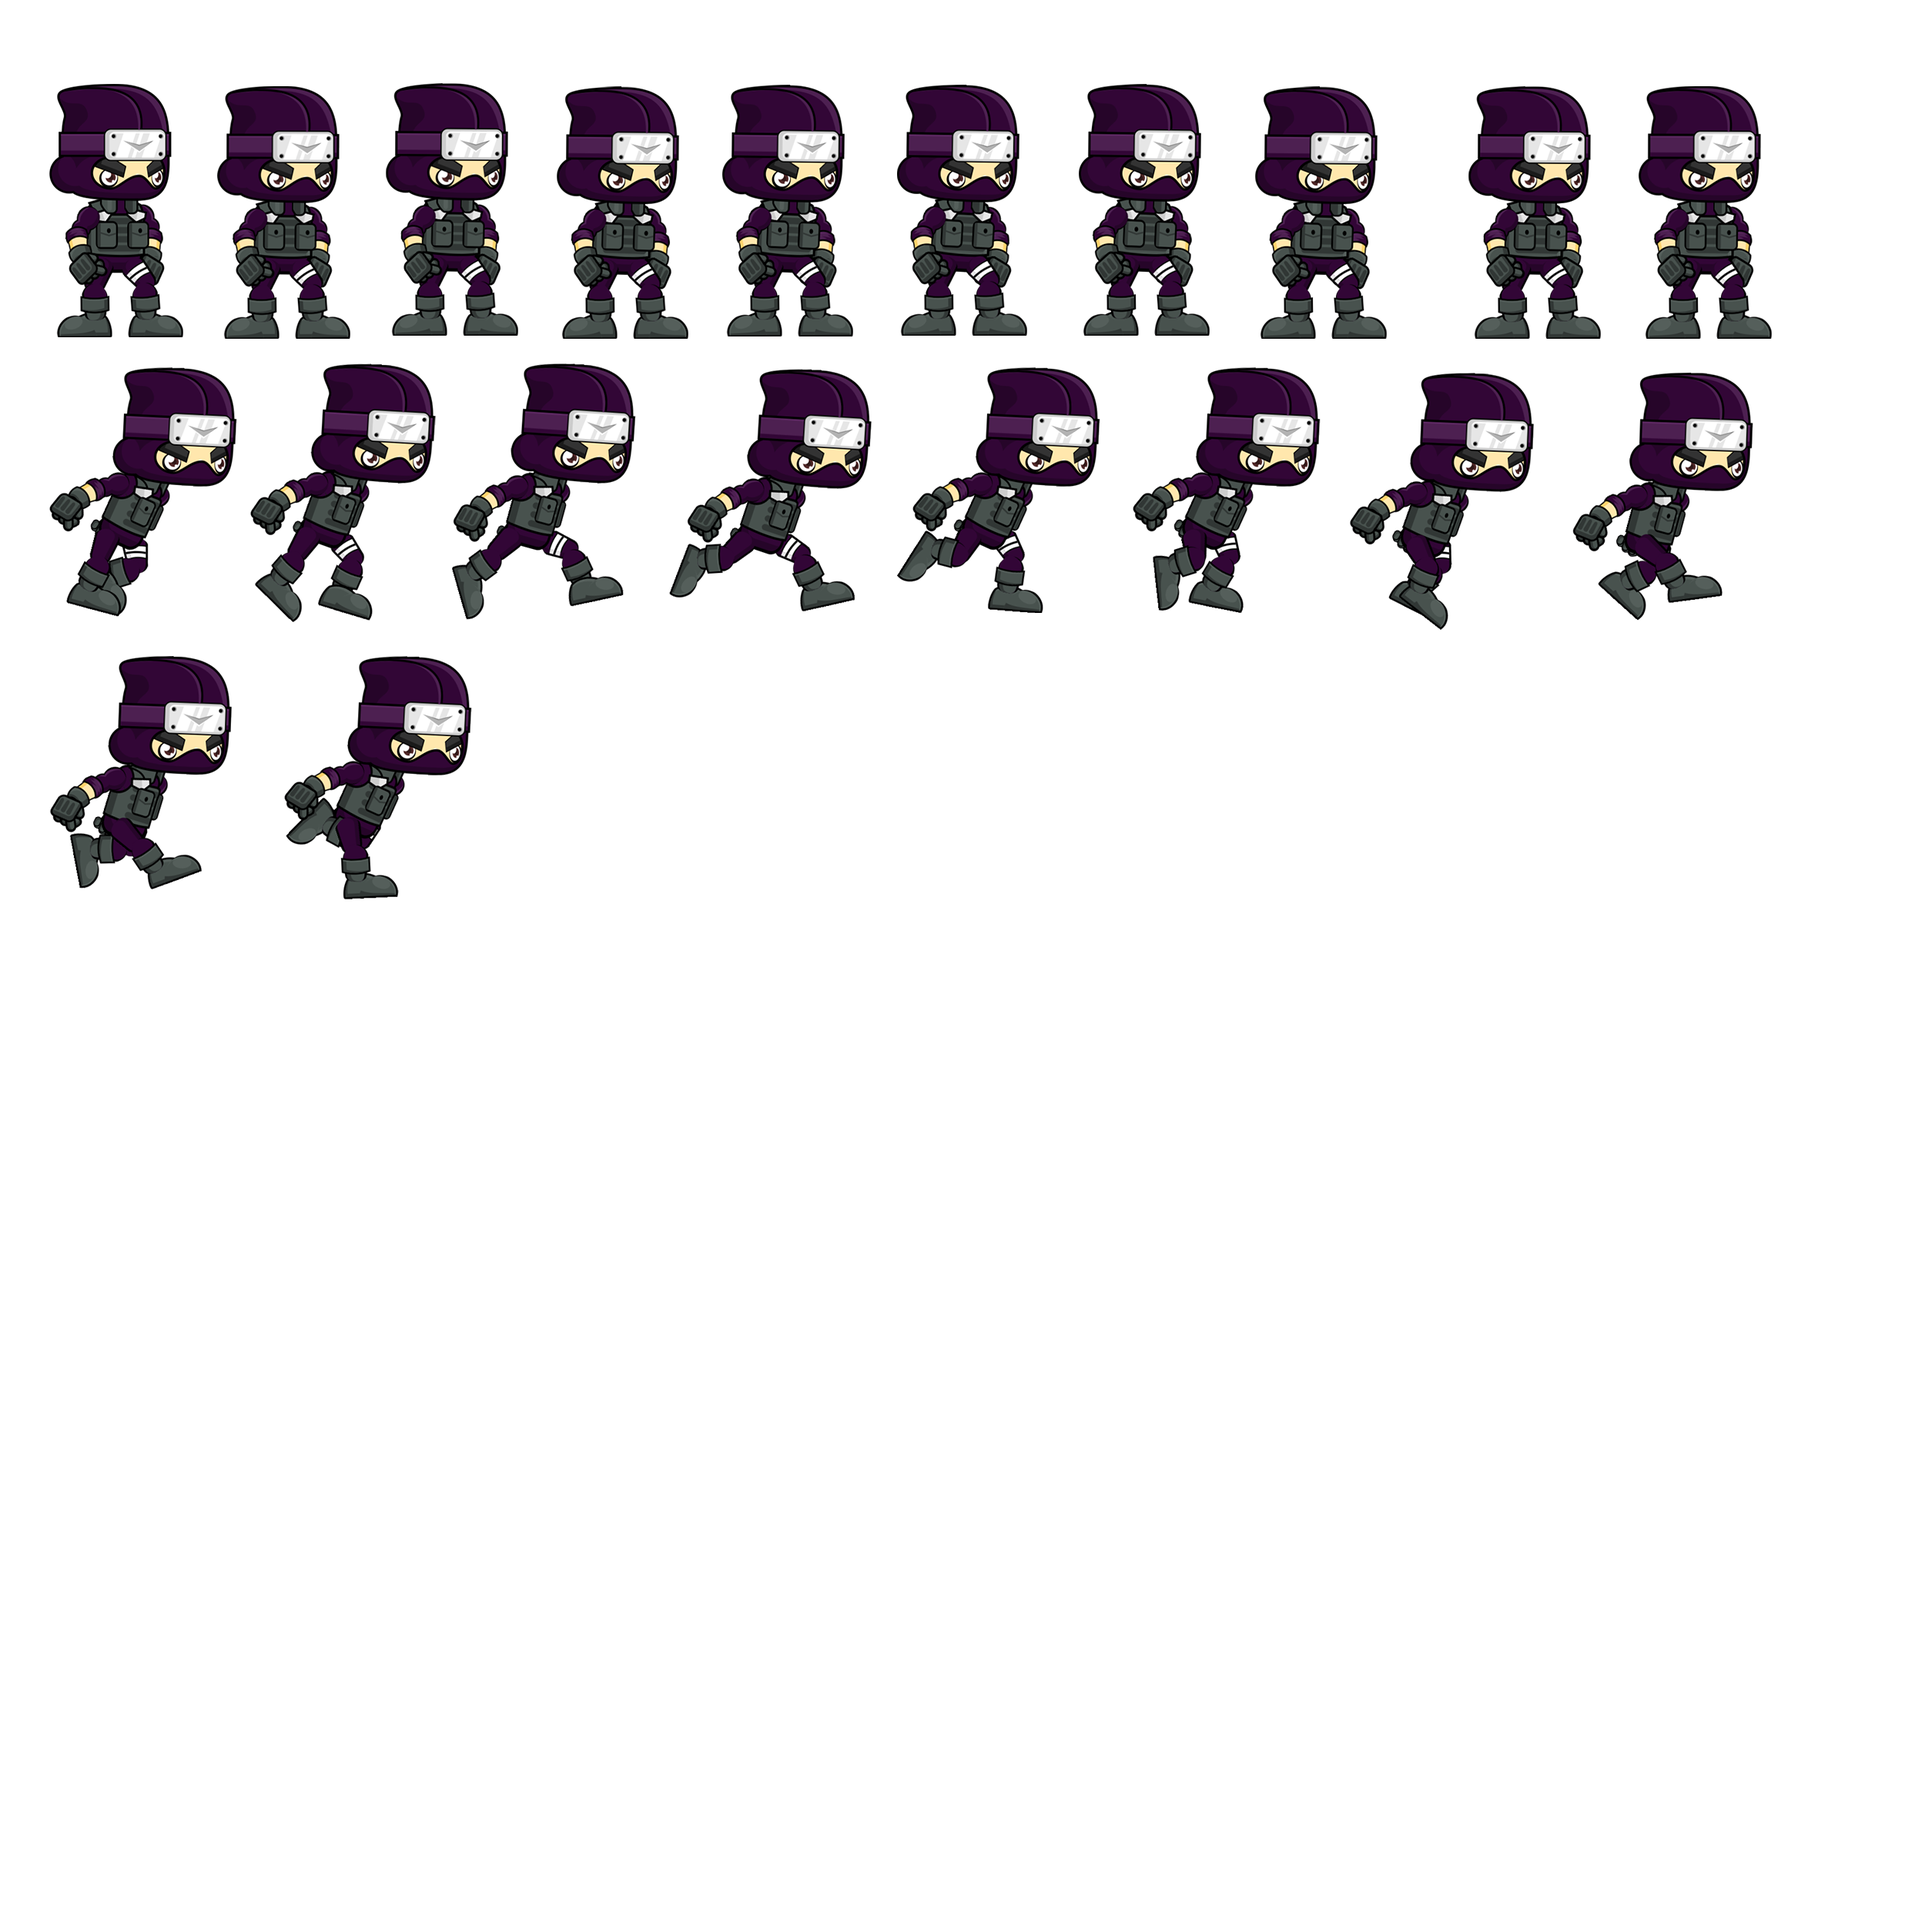
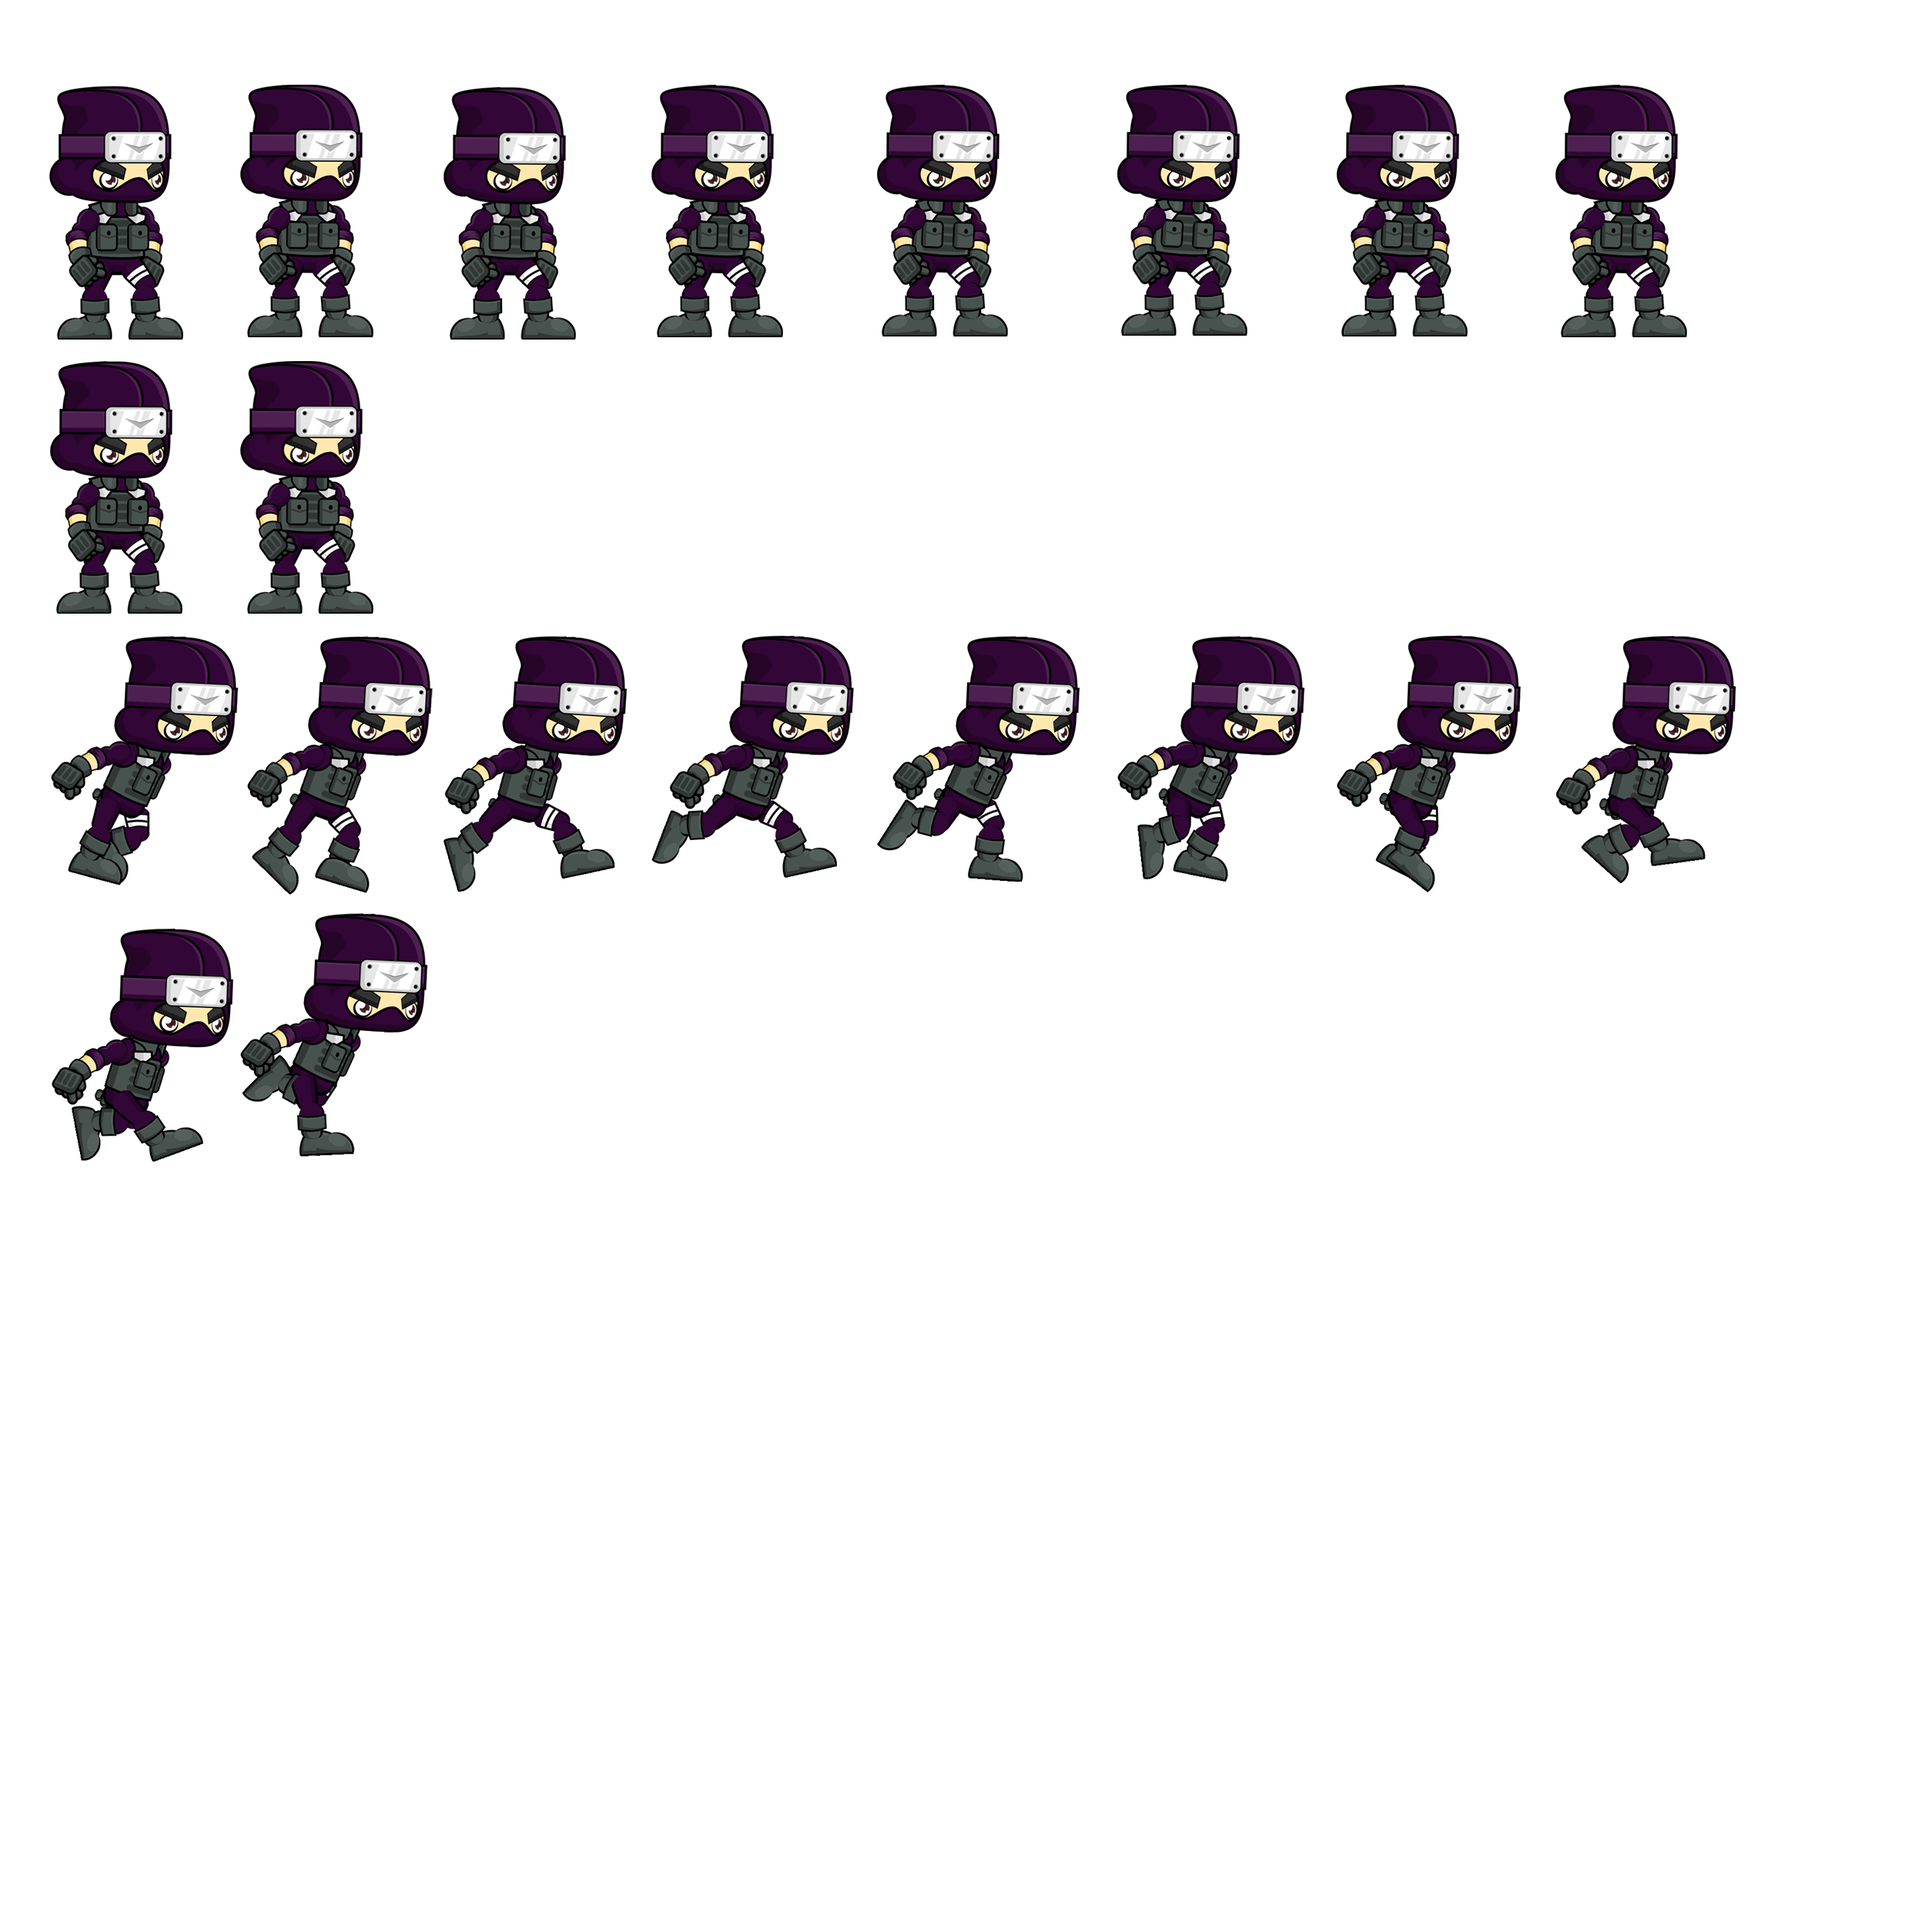
Added first pushback idle and redone the spritesheet

Changed region(s): [[0.0312, 0.0312, 0.936, 0.624]]

diff --git a/Assigment_1/Motor2D/j1Player.cpp b/Assigment_1/Motor2D/j1Player.cpp
@@ -24,17 +24,12 @@ j1Player::j1Player():j1Module()
 	current_animation = NULL;
 
 	//idle animation Right
-	idle_Stop_1.PushBack({ 0,0,50,50 });
+	idle_Stop.PushBack({ 64,110,178,335 });
+	idle_Stop.PushBack({ 64,110,178,335 });
 
-	idle_Stop_1.loop = true;
-	idle_Stop_1.speed = 0.01f;
-
-	//idle animation Left
-	idle_Stop_2.PushBack({ 0,0,50,50 });
-
-	idle_Stop_2.loop = true;
-	idle_Stop_2.speed = 0.07f;
-
+	idle_Stop.loop = false;
+	idle_Stop.speed = 0.01f;
+	
 	// Move Right
 	right.PushBack({ 0,0,50,50 });
 
@@ -81,7 +76,7 @@ bool j1Player::Start()
 
 	LOG("Loading Player Sheet");
 
-	graphics = App->tex->Load("textures/blue.png");
+	graphics = App->tex->Load("assets/character/character.png");
 
 	LOG("Loading Player Collider");
 	//Player_Coll = App->collision->AddCollider({ position.x, position.y, 46, 70 }, COLLIDER_PLAYER, this);
@@ -283,16 +278,16 @@ bool j1Player::Update(float dt)
 		switch (player_last_direction)
 		{
 		case j1Player::UP:
-			current_animation = &idle_Stop_1;
+			current_animation = &idle_Stop;
 			break;
 		case j1Player::DOWN:
-			current_animation = &idle_Stop_1;
+			current_animation = &idle_Stop;
 			break;
 		case j1Player::LEFT:
-			current_animation = &idle_Stop_2;
+			current_animation = &idle_Stop;
 			break;
 		case j1Player::RIGHT:
-			current_animation = &idle_Stop_1;
+			current_animation = &idle_Stop;
 			break;
 		default:
 			break;

diff --git a/Assigment_1/Motor2D/j1Player.h b/Assigment_1/Motor2D/j1Player.h
@@ -42,8 +42,7 @@ public:
 	SDL_Rect bridge;
 
 	Animation* current_animation = nullptr;
-	Animation idle_Stop_1;
-	Animation idle_Stop_2;
+	Animation idle_Stop;
 	Animation left;
 	Animation right;
 	Animation left_back;
